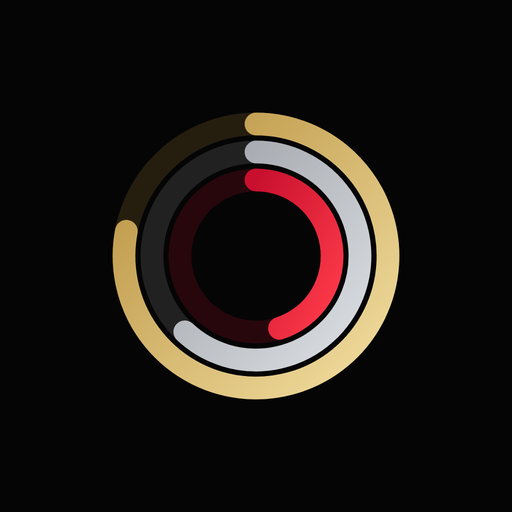
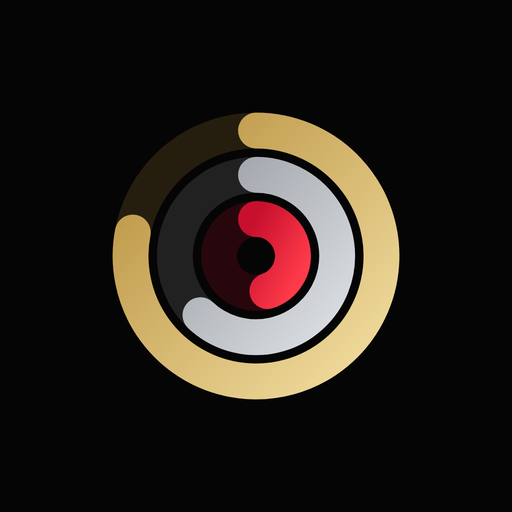
Thicken Home Screen and og rings to Apple Activity proportions
Match stroke/gap to ~11% of outer diameter (w/R=17/68, g/R=4/68) while keeping gold/silver/red and live metric rings unchanged.

Changed region(s): [[0.2188, 0.2188, 0.75, 0.75]]

diff --git a/index.html b/index.html
@@ -8,15 +8,15 @@
 <meta name="robots" content="noindex">
 <meta name="description" content="Everything about my Tesla in three rings: update odds, gas savings and plan value. Updated daily.">
 <title>MyTesla</title>
-<link rel="icon" href="favicon.ico?v=4aa40cad1f" sizes="16x16 32x32 48x48">
-<link rel="icon" href="assets/icon-32.png?v=58db1c9129" type="image/png" sizes="32x32">
-<link rel="icon" href="assets/icon.svg?v=4d3c67d7d4" type="image/svg+xml" sizes="any">
-<link rel="apple-touch-icon" href="assets/touch-icon-180.png?v=87d109f451" sizes="180x180">
-<link rel="apple-touch-icon" href="assets/touch-icon-167.png?v=2452324759" sizes="167x167">
-<link rel="apple-touch-icon" href="assets/touch-icon-152.png?v=99190161e6" sizes="152x152">
-<link rel="apple-touch-icon" href="assets/touch-icon-120.png?v=bce357f554" sizes="120x120">
-<link rel="mask-icon" href="safari-pinned-tab.svg?v=4c4cc97eea" color="#e82127">
-<link rel="manifest" href="site.webmanifest?v=da5538c2c8">
+<link rel="icon" href="favicon.ico?v=ae0a9e6cf4" sizes="16x16 32x32 48x48">
+<link rel="icon" href="assets/icon-32.png?v=ce8975d16d" type="image/png" sizes="32x32">
+<link rel="icon" href="assets/icon.svg?v=7e483f612b" type="image/svg+xml" sizes="any">
+<link rel="apple-touch-icon" href="assets/touch-icon-180.png?v=1860befc85" sizes="180x180">
+<link rel="apple-touch-icon" href="assets/touch-icon-167.png?v=c87702ba00" sizes="167x167">
+<link rel="apple-touch-icon" href="assets/touch-icon-152.png?v=e21e76531f" sizes="152x152">
+<link rel="apple-touch-icon" href="assets/touch-icon-120.png?v=350e2f176d" sizes="120x120">
+<link rel="mask-icon" href="safari-pinned-tab.svg?v=009a2604a4" color="#e82127">
+<link rel="manifest" href="site.webmanifest?v=a8c11947b1">
 <meta name="apple-mobile-web-app-title" content="MyTesla">
 <meta name="apple-mobile-web-app-capable" content="yes">
 <meta name="mobile-web-app-capable" content="yes">
@@ -26,14 +26,14 @@
 <meta property="og:title" content="MyTesla">
 <meta property="og:description" content="Everything about my Tesla in three rings: update odds, gas savings and plan value. Updated daily.">
 <meta property="og:url" content="https://ggalletti1.github.io/">
-<meta property="og:image" content="https://ggalletti1.github.io/assets/og.png?v=39ec0b35ee">
+<meta property="og:image" content="https://ggalletti1.github.io/assets/og.png?v=aef200e745">
 <meta property="og:image:width" content="1200">
 <meta property="og:image:height" content="630">
-<meta property="og:image:alt" content="MyTesla: three thin rings on a dark background">
+<meta property="og:image:alt" content="MyTesla: three rings on a dark background">
 <meta name="twitter:card" content="summary_large_image">
 <meta name="twitter:title" content="MyTesla">
 <meta name="twitter:description" content="Everything about my Tesla in three rings: update odds, gas savings and plan value. Updated daily.">
-<meta name="twitter:image" content="https://ggalletti1.github.io/assets/og.png?v=39ec0b35ee">
+<meta name="twitter:image" content="https://ggalletti1.github.io/assets/og.png?v=aef200e745">
 <script>/* set theme before first paint to avoid a flash */(function(){var d=document.documentElement,m='system';try{var s=localStorage.getItem('theme');if(s==='light'||s==='dark')m=s;}catch(e){}var t=m==='system'?(window.matchMedia&&matchMedia('(prefers-color-scheme: light)').matches?'light':'dark'):m;d.setAttribute('data-mode',m);d.setAttribute('data-theme',t);d.style.colorScheme=t;})();</script>
 <link rel="stylesheet" href="assets/style.css?v=2fd59911be">
 </head>
